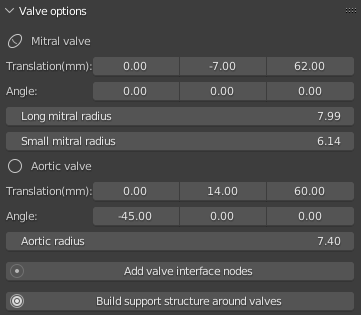
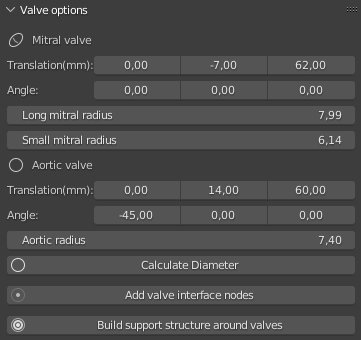
feat:updated README.md

diff --git a/README.md b/README.md
@@ -40,6 +40,8 @@ subprocess.call([sys.exec_prefix + '\\bin\\python.exe', '-m', 'pip', 'install', 
 subprocess.call([sys.exec_prefix + '\\bin\\python.exe', '-m', 'pip', 'install', 'open3d'])
 subprocess.call([sys.exec_prefix + '\\bin\\python.exe', '-m', 'pip', 'install', 'matplotlib'])
 subprocess.call([sys.exec_prefix + '\\bin\\python.exe', '-m', 'pip', 'install', 'PyQt5'])
+subprocess.call([sys.exec_prefix + '\\bin\\python.exe', '-m', 'pip', 'install', 'trimesh'])
+subprocess.call([sys.exec_prefix + '\\bin\\python.exe', '-m', 'pip', 'install', 'pandas'])
 ```
 If pip is missing (Output 0 in Blender Python console):
 ```bash
@@ -51,6 +53,8 @@ main(args=['install','scipy'])
 main(args=['install','open3d'])
 main(args=['install','matplotlib'])
 main(args=['install','PyQt5'])
+main(args=['install','trimesh'])
+main(args=['install','pandas'])
 ```
 ## Installation of Blender case with addons
 In Blender go to Edit→Preferences→Add-ons:
@@ -93,7 +97,7 @@ F1 and F5 includes a clickable button for sorting the volumes and selecting the 
     ![Image of the Valve options panel](/readme_images/Valve_options.png)\
     3.2. Change positition (translation), rotation (angle) and size (radii) of the mitral and aortic valve using the respective textboxes\
     \
-    This sets up the arrangement of the mitral and aortic valve. (These inputs can be checked by pressing the buttons 'Add valve interface nodes' and 'Build support structure around valves'. Note that this will add nodes to an existing object. So consider creating a copy before pressing those buttons.)
+    This sets up the arrangement of the mitral and aortic valve. (These inputs can be checked by pressing the buttons 'Add valve interface nodes' and 'Build support structure around valves'. Note that this will add nodes to an existing object. So consider creating a copy before pressing those buttons.) An additional button "Calculate Diameter" also reads directly from the import folder and immediately sets the value of the Long mitral radius, Small mitral radius, and Aortic Radius. 
 4. Setup algorithm variables\
     4.1. Open panel 'Algorithm setup variables'\
     ![Image of the Algorithm setup variables panel](/readme_images/Algorithm_setup.png)\
@@ -127,7 +131,7 @@ Select all ventricle objects and either run all steps with the button 'Quick rec
 2. Create basal region\
     2.1. Press button 'Create basal region' in the panel 'Geometric ventricle reconstruction pipeline'\
     \
-    This creates a reference basal region used for all ventricle objects. For that first the valve indices and a support structure are added to a copy of the reference ventricle. Then the Poisson surface reconstruction is applied to the vertices to create a surface object from all vertices. After that the object is remeshed and the apical region is removed while smoothing the lower edge loop of the resulting basal region.
+    This creates a reference basal region used the selected object. For that first the valve indices and a support structure are added to a copy of the reference ventricle. Then the Poisson surface reconstruction is applied to the vertices to create a surface object from all vertices. After that the object is remeshed and the apical region is removed while smoothing the lower edge loop of the resulting basal region. If multiple objects are selected, then a basal region will be created for each of the selected object, however, these basal regions will most likely not share the same topology. The button "Mesh Transformation" is required to remesh the objects to share the same topology.
 3. Connect basal and apical parts\
     3.1. Press button 'Connect basal and apical regions' in the panel 'Geometric ventricle reconstruction pipeline'\
     \
@@ -167,6 +171,9 @@ Check the node-connectivity of all selected objects. This includes:
 - a check if the edges and faces of all objects are created with the same vertices
 ### Color minimal distance to raw object
 During the usage of the pipeline the longitudinal shift is saved as a variable bound to the respective object (ventricle 0 ... X). The user has to re-import the raw data and rename it to 'ref_obj'. While the reconstructed object is selected pressing the button 'Color minimal distance to raw object' will compute the minimal distance from each face-center of the reconstructed ventricle to any face-center of the reference object resulting in a 3d-representation of the Hausdorff distance (https://cgm.cs.mcgill.ca/~godfried/teaching/cg-projects/98/normand/main.html). The faces of the object are then colored with the distances which are normalized with the maximum value resulting in a scale from 0 to 1 (blue→white→red). To view the colors select 'Material Preview' in Blender (top right in 3D Viewport). This process give a qualitative visual representation of the quality of the reconstruction pipeline.
+
+### Transform Objects
+By selecting multiple meshes with similar orientation, this button picks a mesh to use as reference, and then creates of copy and transform it into each of the other selected meshes. This aims to make sure that all the meshes share the same topology. It is transformed using a BvH Tree based transformation.
 
 # Plot STL values
 ![Image of the plotting functionality](/readme_images/Plot_function.png)\
